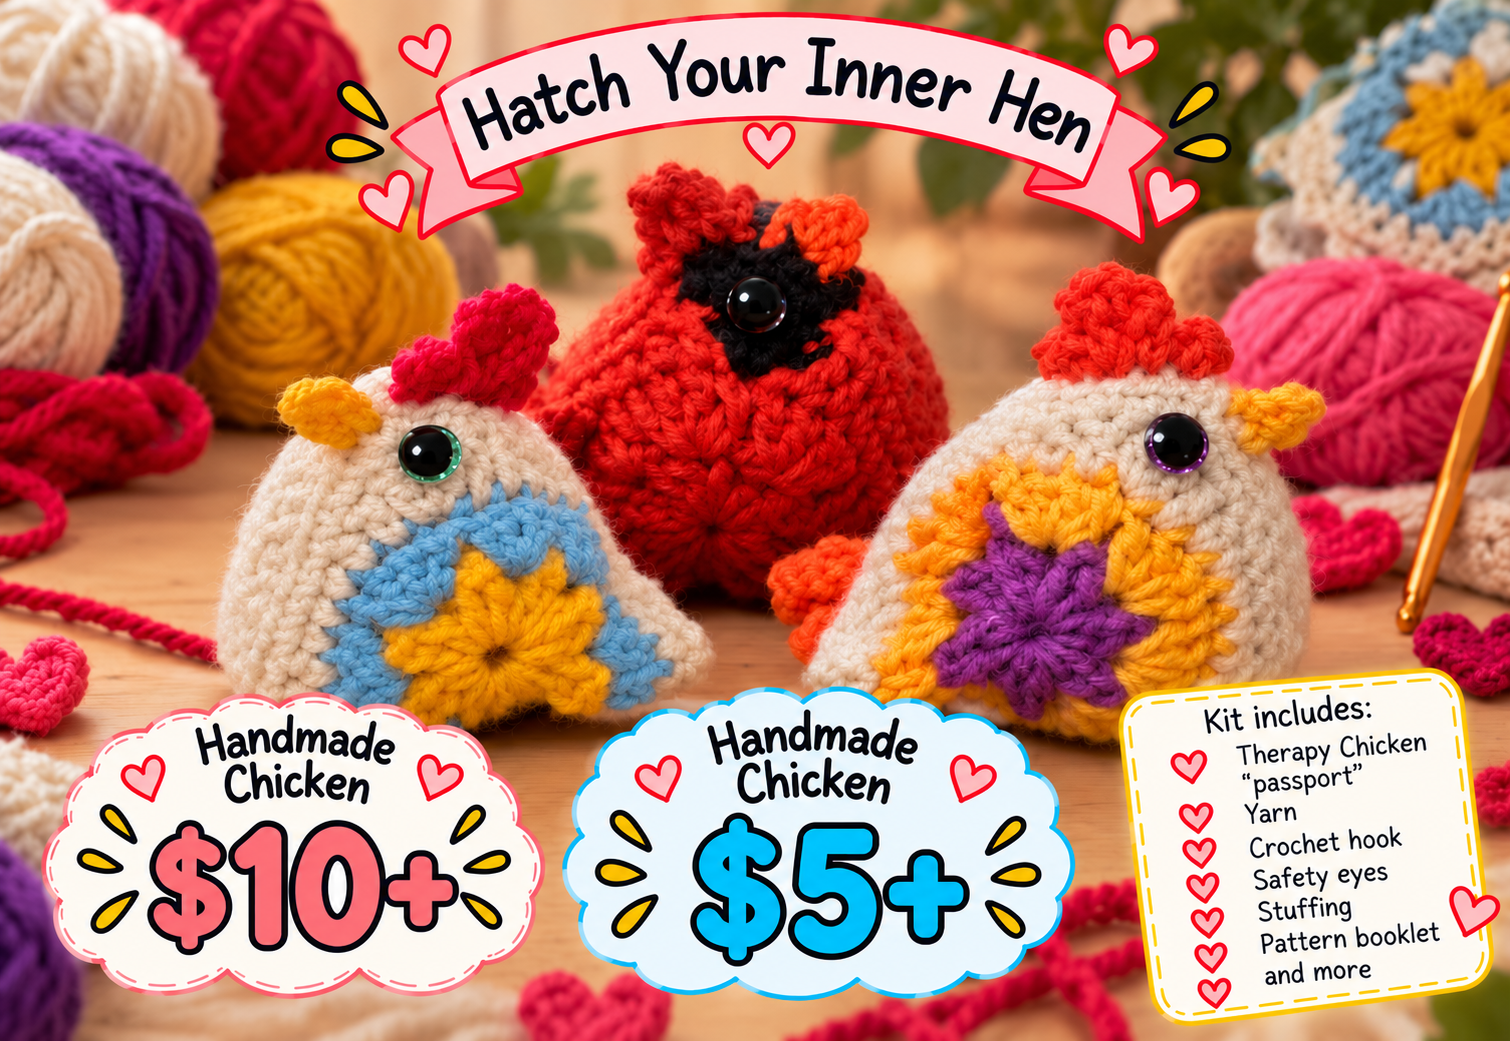
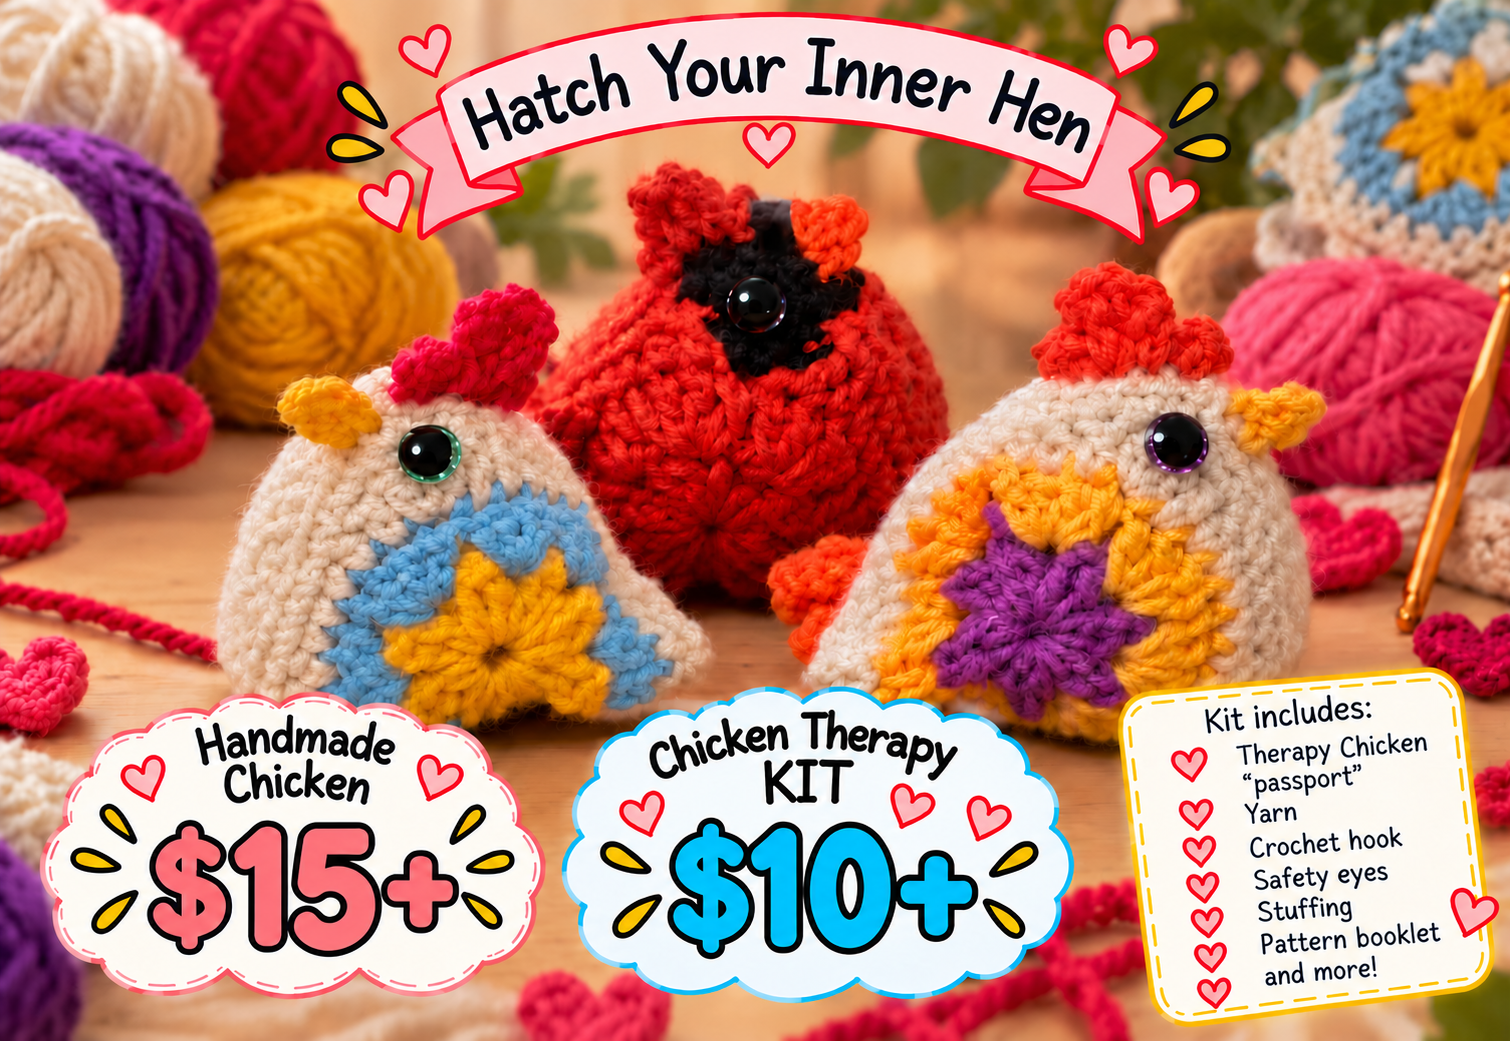
Update suggested donations: kits $10+, chickens $15+

diff --git a/index.html b/index.html
@@ -6,10 +6,10 @@
 <header><a class="brand" href="#"><span class="psi">Ψ</span><span>PSI BETA<small>PSYCHOLOGY CLUB</small></span></a><nav aria-label="Main navigation"><a href="#chickens">Meet the chickens</a><a href="#make">Make your own</a><a href="#pickup">Campus pickup</a><a class="button" href="#chickens">Find your chicken ↗</a></nav></header>
 <main><div class="hero"><div><div class="eyebrow"><span class="dot"></span> SMALL STITCHES. BIG CONNECTIONS.</div><h1>Have you tried<br><em>Chicken<br>Therapy?</em></h1><p class="lead">Meet your new handmade happy companion. Adopt a crochet chicken or make your own with Psi Beta Psychology Club.</p><div class="actions"><a class="button pink" href="#chickens">Meet your chicken <span>↗</span></a><a class="button light" href="#make">Let’s make one</a></div><p class="note">Made with yarn, a little personality, and a whole lot of heart.</p></div><div class="hero-art"><div class="photo"><img src="chickens-hero.png" alt="Three colorful handmade crochet chickens with Hatch Your Inner Hen banner, chicken and kit prices, and kit supplies"></div><div class="spark" aria-hidden="true">✳</div></div></div>
 <div class="ribbon"><span>HANDMADE HAPPINESS</span><span>✳</span><span>A MOMENT TO MAKE</span><span>✳</span><span>COMMUNITY & CONNECTION</span><span>✳</span><span>PSI BETA PSYCHOLOGY CLUB</span></div>
-<section id="chickens"><div class="section-top"><div><div class="eyebrow">PICK YOUR PATH TO COZY</div><h2>A little flock.<br>Something for everyone.</h2></div><p>A ready-made friend or a creative afternoon? There’s more than one way to bring a little chicken joy into your day.</p></div><div class="options"><article class="option"><div class="option-art passport-photo passport-chicken" role="img" aria-label="Handmade crochet chicken beside a navy and gold Psi Beta Therapy Chicken passport"></div><div class="option-body"><h3>Adopt a therapy chicken</h3><p>A handmade crochet companion, full of color and character. Find a little friend to keep you company.</p><div class="price-row"><div class="price">$10+<small>Suggested donation</small></div><button class="button light" data-order="Therapy chicken">Order a chicken ↗</button></div></div></article><article class="option"><div class="option-art passport-photo passport-kit" role="img" aria-label="Chicken Therapy Kit with navy and gold passport, yarn, crochet hook, and a phone showing the crochet-along video"></div><div class="option-body"><h3>Make your own chicken</h3><p>Start with a Chicken Therapy Kit: yarn, a crochet hook, a needle, stuffing, safety eyes, a pattern booklet, and a chicken “passport.”</p><div class="price-row"><div class="price">$5+<small>Suggested donation</small></div><button class="button light" data-order="Chicken Therapy Kit">Get a kit ↗</button></div></div></article></div></section>
+<section id="chickens"><div class="section-top"><div><div class="eyebrow">PICK YOUR PATH TO COZY</div><h2>A little flock.<br>Something for everyone.</h2></div><p>A ready-made friend or a creative afternoon? There’s more than one way to bring a little chicken joy into your day.</p></div><div class="options"><article class="option"><div class="option-art passport-photo passport-chicken" role="img" aria-label="Handmade crochet chicken beside a navy and gold Psi Beta Therapy Chicken passport"></div><div class="option-body"><h3>Adopt a therapy chicken</h3><p>A handmade crochet companion, full of color and character. Find a little friend to keep you company.</p><div class="price-row"><div class="price">$15+<small>Suggested donation</small></div><button class="button light" data-order="Therapy chicken">Order a chicken ↗</button></div></div></article><article class="option"><div class="option-art passport-photo passport-kit" role="img" aria-label="Chicken Therapy Kit with navy and gold passport, yarn, crochet hook, and a phone showing the crochet-along video"></div><div class="option-body"><h3>Make your own chicken</h3><p>Start with a Chicken Therapy Kit: yarn, a crochet hook, a needle, stuffing, safety eyes, a pattern booklet, and a chicken “passport.”</p><div class="price-row"><div class="price">$10+<small>Suggested donation</small></div><button class="button light" data-order="Chicken Therapy Kit">Get a kit ↗</button></div></div></article></div></section>
 <section class="making" id="make"><div class="eyebrow">FROM YARN TO YOUR NEW SIDEKICK</div><h2>Let’s hatch something happy.</h2><p>Make a little space in your day for creativity and connection.</p><div class="steps"><div><span class="number">1</span><h3>Kit materials</h3><p>Choose your kit and lay out your yarn, crochet hook, needle, pattern booklet, stuffing, and finishing pieces.</p></div><div><span class="number">2</span><h3>Follow the crochet-along</h3><p>Scan the video QR code in the Chicken Passport, look on the back of the passport for directions, or visit <a href="https://tinyurl.com/TherapyChicken" target="_blank" rel="noopener" style="text-decoration:underline">tinyurl.com/TherapyChicken</a> to watch the step-by-step crochet-along video. Pause and replay as you make your chicken!</p></div><div><span class="number">3</span><h3>Print your chicken’s passport</h3><p>Print the Passport, or use one you already have. Fill it out to name your chicken and create a record of your learning experience.</p></div></div><div class="checklist"><span class="chip">✓ Yarn</span><span class="chip">✓ Crochet hook</span><span class="chip">✓ Needle</span><span class="chip">✓ Safety eyes</span><span class="chip">✓ Stuffing</span><span class="chip">✓ Pattern booklet</span><span class="chip">✓ Chicken passport</span></div></section>
 <section class="pickup" id="pickup"><div><div class="eyebrow">COME FOR THE CHICKENS. STAY FOR THE CONNECTION.</div><h2>A little joy,<br>right here on campus.</h2><p class="lead">Join Psi Beta Psychology Club in celebrating creativity, community, and connection. Pick up a chicken or kit and bring a little handmade happiness home.</p><button class="button pink" data-order="Chicken or kit">View ordering details ↗</button></div><div class="event"><div class="eyebrow">MARK YOUR CALENDAR</div><div class="date">November 16 & 17</div><strong>Available on campus</strong><p>Dates as listed on the club flyer. Check with Psi Beta for the location and hours.</p><p>♡ A little yarn. A lot of joy.</p></div></section>
-<section class="faq"><div class="eyebrow">A FEW THINGS TO KNOW</div><h2>Before you join the flock.</h2><details><summary>What is “chicken therapy”?</summary><p>It’s the name of Psi Beta’s crochet chicken project: handmade companions and kits that invite creativity and connection. These chickens are comfort crafts, not a clinical treatment or a substitute for mental health care.</p></details><details><summary>Do I need to know how to crochet?</summary><p>The kit includes a pattern booklet to guide your project. If you’re new to crochet, check with Psi Beta about the skill level and any available help before ordering. You can also choose a ready-made chicken.</p></details><details><summary>How do I order or donate?</summary><p>Use either order button to see the original flyer and its ordering QR code. Suggested donations are $10+ for a finished therapy chicken and $5+ for a Chicken Therapy Kit. Orders and donations are handled through the club’s ordering destination.</p></details><details><summary>Are there any care or safety considerations?</summary><p>Follow the kit booklet for assembly and care. Safety eyes and other small parts can pose a choking hazard; keep them away from young children and pets.</p></details></section>
+<section class="faq"><div class="eyebrow">A FEW THINGS TO KNOW</div><h2>Before you join the flock.</h2><details><summary>What is “chicken therapy”?</summary><p>It’s the name of Psi Beta’s crochet chicken project: handmade companions and kits that invite creativity and connection. These chickens are comfort crafts, not a clinical treatment or a substitute for mental health care.</p></details><details><summary>Do I need to know how to crochet?</summary><p>The kit includes a pattern booklet to guide your project. If you’re new to crochet, check with Psi Beta about the skill level and any available help before ordering. You can also choose a ready-made chicken.</p></details><details><summary>How do I order or donate?</summary><p>Use either order button to see the original flyer and its ordering QR code. Suggested donations are $15+ for a finished therapy chicken and $10+ for a Chicken Therapy Kit. Orders and donations are handled through the club’s ordering destination.</p></details><details><summary>Are there any care or safety considerations?</summary><p>Follow the kit booklet for assembly and care. Safety eyes and other small parts can pose a choking hazard; keep them away from young children and pets.</p></details></section>
 <section id="comments"><div class="eyebrow">NOTES FROM THE FLOCK</div><h2>Share your chicken story.</h2><p class="lead">Give your chicken a shout-out, share what you learned, or leave a little encouragement.</p><p class="note">Comments are saved only in this browser on this device. They are not sent to Psi Beta or visible to other visitors. Avoid sharing personal or sensitive information.</p><form class="comments-form" id="comment-form"><label>Your name<input name="name" maxlength="60" required autocomplete="given-name" placeholder="What should we call you?"></label><label>Your comment<textarea name="comment" rows="4" maxlength="1500" required placeholder="Tell us about your chicken…"></textarea></label><button class="button pink" type="submit">Add comment ♡</button></form><p id="comment-status" role="status" aria-live="polite"></p><div id="comments-list"></div></section></main><footer><div class="brand"><span class="psi">Ψ</span><span>PSI BETA <small>PSYCHOLOGY CLUB</small></span></div><p>Supporting mental health, community, and connection. ♡</p></footer>
 <dialog id="order"><button class="close" aria-label="Close ordering details">×</button><h2 id="order-title">Join the flock</h2><p>Chickens are available at on-campus fundraising events or through the Psi Beta Psychology Club.</p><p>Contact Psi Beta Psychology Club to confirm availability and pickup details.</p><img src="chicken-therapy-info.png" alt="Hatch Your Inner Hen: handmade crochet chickens, suggested donations, and kit materials"><p><a href="chicken-therapy-info.png" target="_blank" rel="noopener" style="text-decoration:underline">Open the full-size flyer ↗</a></p></dialog>
 <script>const dialog=document.getElementById('order');document.querySelectorAll('[data-order]').forEach(button=>button.addEventListener('click',()=>{document.getElementById('order-title').textContent=button.dataset.order;dialog.showModal()}));dialog.querySelector('.close').addEventListener('click',()=>dialog.close());dialog.addEventListener('click',e=>{if(e.target===dialog){const r=dialog.getBoundingClientRect();if(e.clientX<r.left||e.clientX>r.right||e.clientY<r.top||e.clientY>r.bottom)dialog.close()}});</script><script>(()=>{const key='psi-beta-chicken-comments-v1',form=document.getElementById('comment-form'),list=document.getElementById('comments-list'),status=document.getElementById('comment-status');let comments=[];try{const saved=JSON.parse(localStorage.getItem(key)||'[]');if(Array.isArray(saved))comments=saved.filter(c=>c&&typeof c.name==='string'&&typeof c.text==='string'&&typeof c.date==='string').slice(0,100)}catch{}function save(){try{localStorage.setItem(key,JSON.stringify(comments));return true}catch{status.textContent='Your browser could not save this change. Please enable local storage and try again.';return false}}function render(){list.replaceChildren();if(!comments.length){const p=document.createElement('p');p.className='note';p.textContent='Your chicken story can be the first one saved here.';list.append(p)}comments.forEach((c,i)=>{const article=document.createElement('article');article.className='comment-entry';const name=document.createElement('strong');name.textContent=c.name;const date=document.createElement('small');date.textContent=' · '+new Date(c.date).toLocaleDateString();const body=document.createElement('p');body.textContent=c.text;const remove=document.createElement('button');remove.type='button';remove.textContent='Delete';remove.setAttribute('aria-label','Delete comment by '+c.name);remove.onclick=()=>{const previous=comments.slice();comments.splice(i,1);if(save()){render();status.textContent='Comment deleted.'}else comments=previous};article.append(name,date,remove,body);list.append(article)})}form.addEventListener('submit',e=>{e.preventDefault();const data=new FormData(form),name=String(data.get('name')).trim(),text=String(data.get('comment')).trim();if(!name||!text){status.textContent='Please enter your name and a comment.';return}if(comments.length>=100){status.textContent='This browser has reached 100 saved comments. Delete an older comment to add another.';return}comments.unshift({name,text,date:new Date().toISOString()});if(save()){form.reset();render();status.textContent='Comment saved in this browser.'}else comments.shift()});render()})();</script></body></html>
